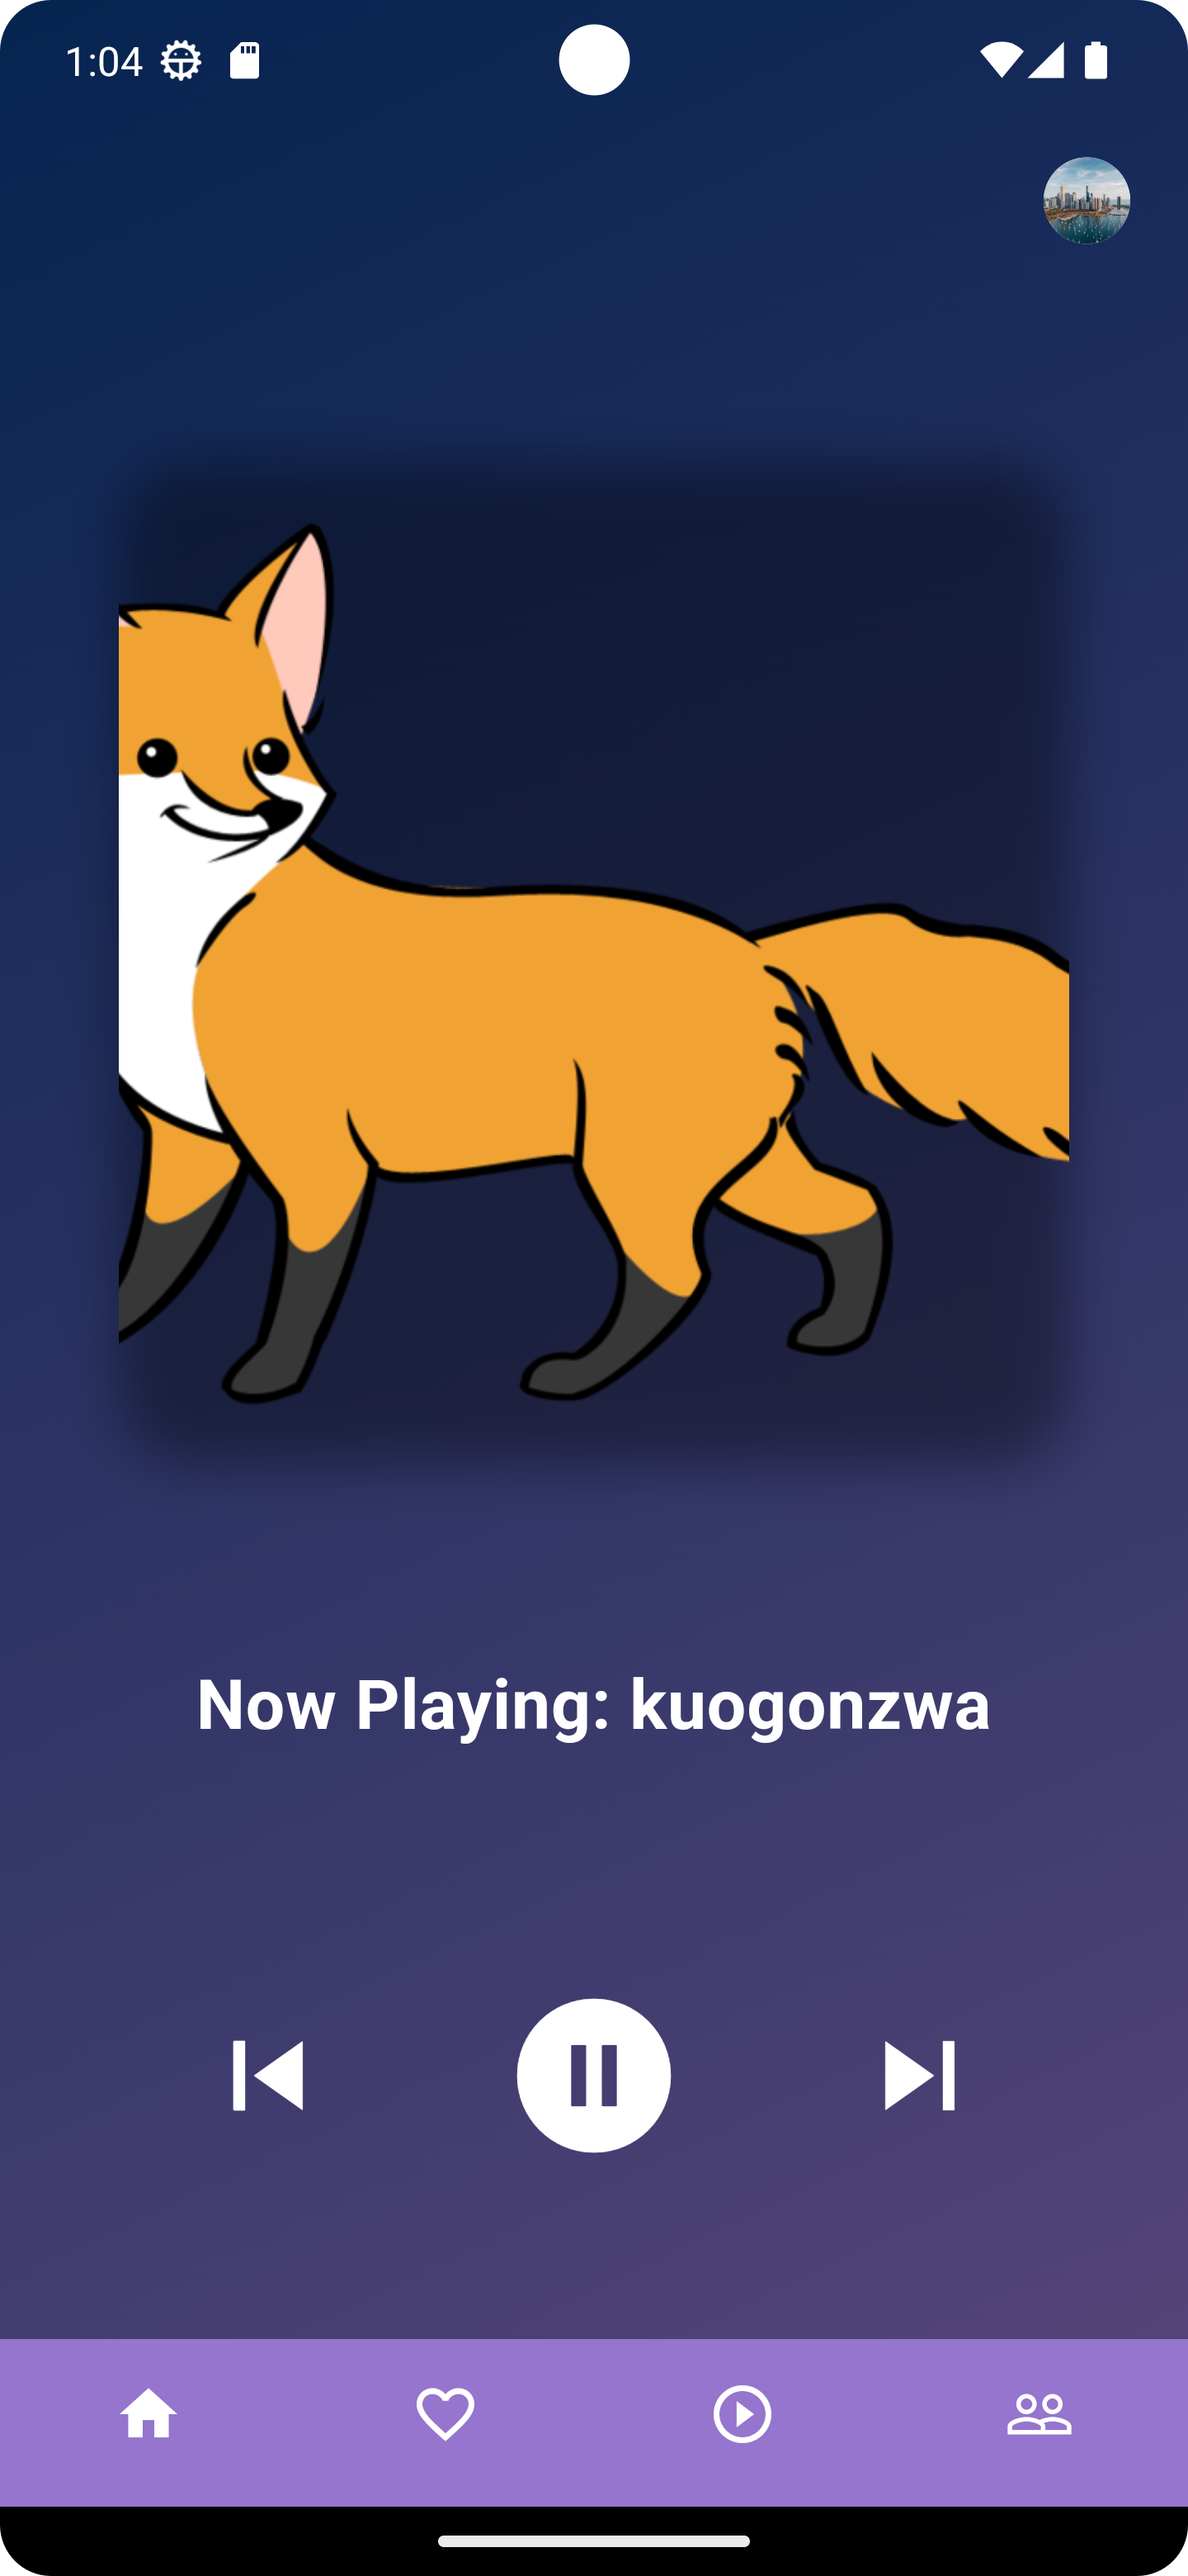
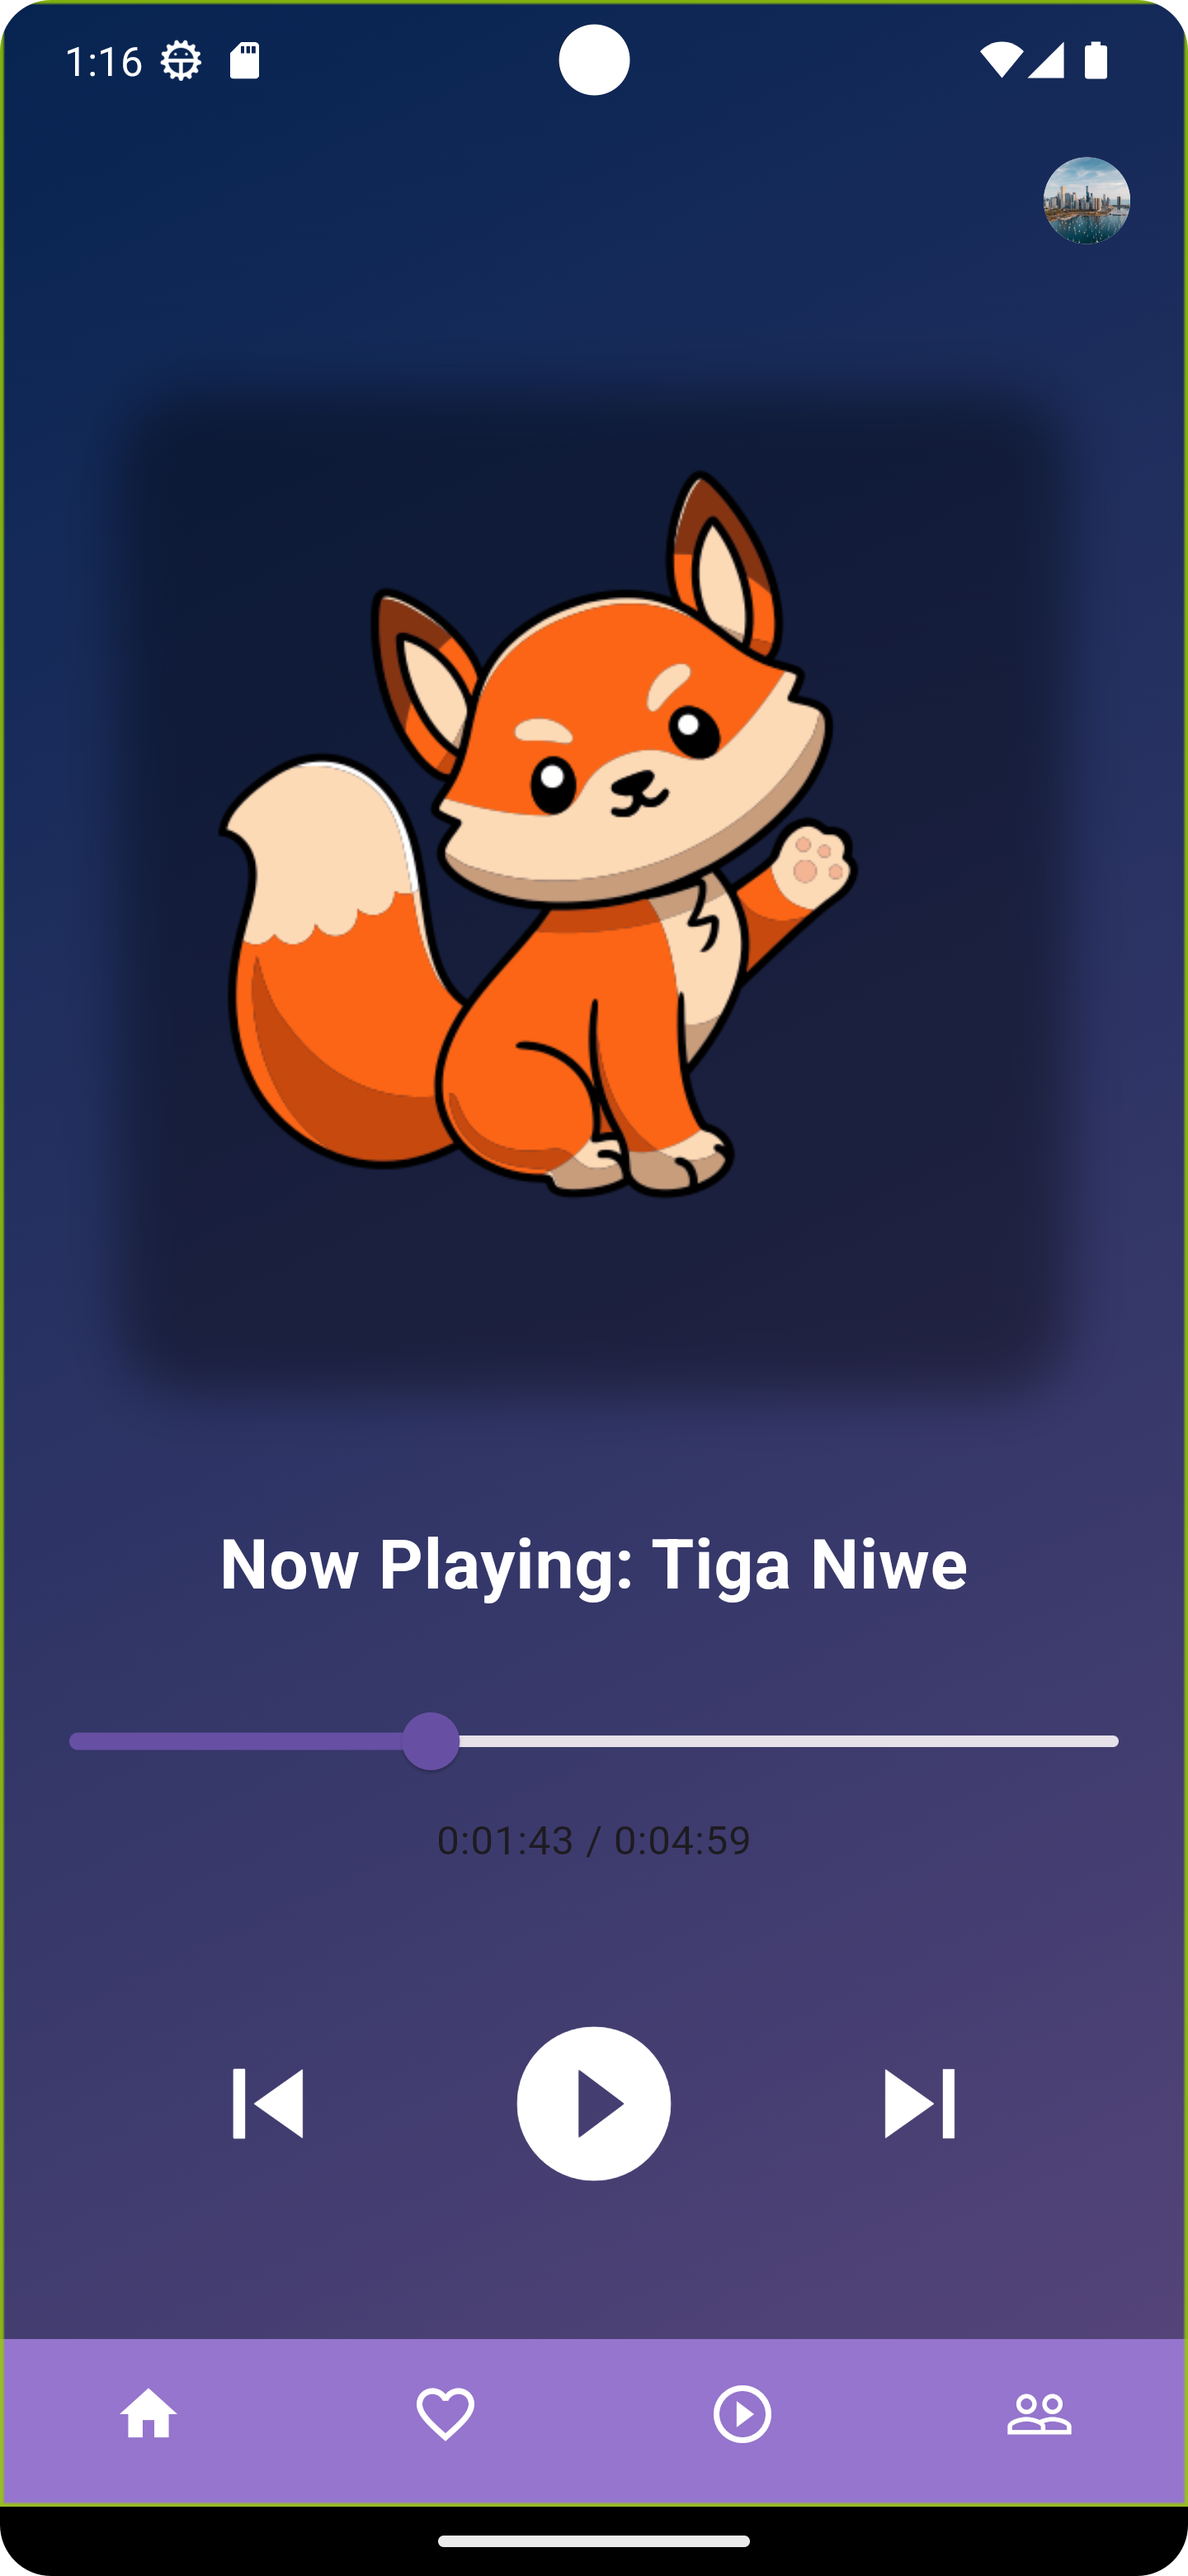
updated player screen

diff --git a/lib/screens/home_screen.dart b/lib/screens/home_screen.dart
@@ -241,6 +241,28 @@ class _HomeScreenState extends State<HomeScreen> {
                 );
               },
             ),
+            StreamBuilder<Duration>(
+              stream: _audioPlayer.positionStream,
+              builder: (context, snapshot) {
+                final position = snapshot.data ?? Duration.zero;
+                final totalDuration = _audioPlayer.duration ?? Duration.zero;
+
+                return Column(
+                  children: [
+                    Slider(
+                      min: 0.0,
+                      max: totalDuration.inSeconds.toDouble(),
+                      value: position.inSeconds.toDouble(),
+                      onChanged: (value) {
+                        final newPosition = Duration(seconds: value.toInt());
+                        _audioPlayer.seek(newPosition);
+                      },
+                    ),
+                    Text('${position.toString().split('.').first} / ${totalDuration.toString().split('.').first}'),
+                  ],
+                );
+              },
+            ),
             const SizedBox(height: 20),
             if (currentlyPlaying != null)
               Column(
@@ -499,7 +521,28 @@ class _HomeScreenState extends State<HomeScreen> {
             ),
           ),
         ),
+        StreamBuilder<Duration>(
+          stream: _audioPlayer.positionStream,
+          builder: (context, snapshot) {
+            final position = snapshot.data ?? Duration.zero;
+            final totalDuration = _audioPlayer.duration ?? Duration.zero;
 
+            return Column(
+              children: [
+                Slider(
+                  min: 0.0,
+                  max: totalDuration.inSeconds.toDouble(),
+                  value: position.inSeconds.toDouble(),
+                  onChanged: (value) {
+                    final newPosition = Duration(seconds: value.toInt());
+                    _audioPlayer.seek(newPosition);
+                  },
+                ),
+                Text('${position.toString().split('.').first} / ${totalDuration.toString().split('.').first}'),
+              ],
+            );
+          },
+        ),
         // Controls Section
         Expanded(
           flex: 2,
@@ -515,6 +558,7 @@ class _HomeScreenState extends State<HomeScreen> {
       child: Row(
         mainAxisAlignment: MainAxisAlignment.spaceEvenly,
         children: [
+
           IconButton(
             onPressed: _previousSong,
             icon: const Icon(Icons.skip_previous),
